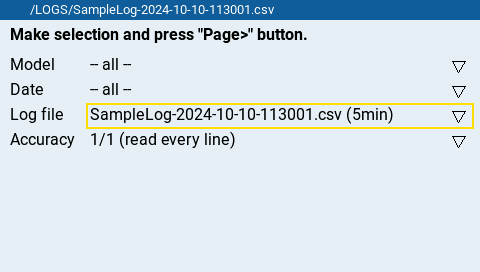
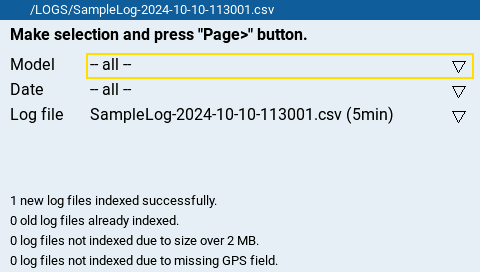
remapped keys, added a key to toggle the plot style, and moved the granularity menu

diff --git a/README.md b/README.md
@@ -24,11 +24,11 @@ To open the app, press the system button on your transmitter and select GPS View
 
     ![screenshot](images/step_01.png)
 
-2. Select a log file from the index.  For large log files, it is recommended to set the accuracy to 1/10.  This will plot every 10th point and make the sticks more responsive in step 4 below.
+2. Select a log file from the index.
 
     ![screenshot](images/step_02.png)
 
-3. Select fields to plot, a map to plot on, and the plot style.  Fields with data that doesn't change over time are excluded.
+3. Select fields to plot, a map to plot on, and the granularity.  Fields with data that doesn't change over time are excluded.  For large log files, it is recommended to use a low granularity.  This will plot fewer data points and make the sticks more responsive in step 4 below.
 
     ![screenshot](images/step_03.png)
 
@@ -38,8 +38,9 @@ To open the app, press the system button on your transmitter and select GPS View
     - aileron stick: pan timeline
     - rudder stick: move crosshair
     - scroll wheel: fine tune crosshair
-    - scroll button: toggle user interface
-    - next page button: toggle telemetry field
+    - scroll button: toggle plot style
+    - telemetry button: toggle telemetry field
+    - next page button: toggle user interface
 
     ![screenshot](images/step_04.png)
 
